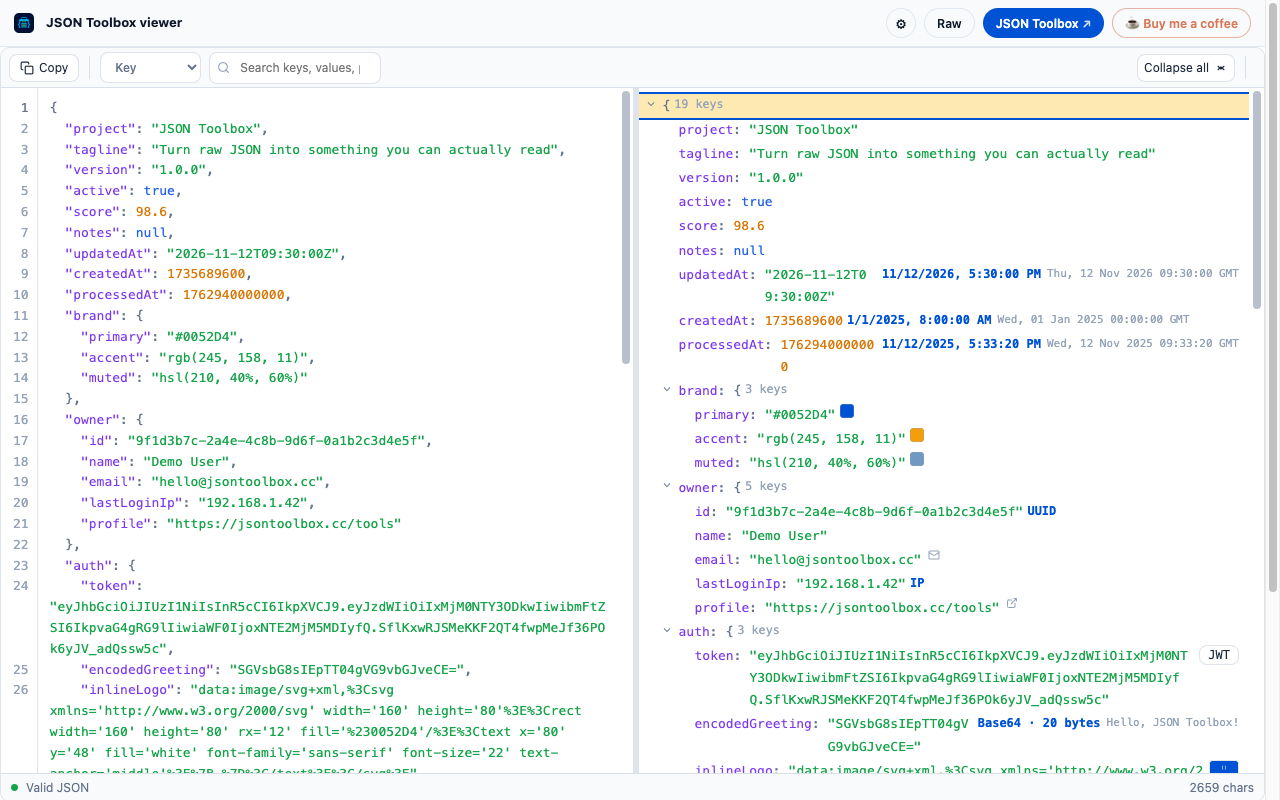
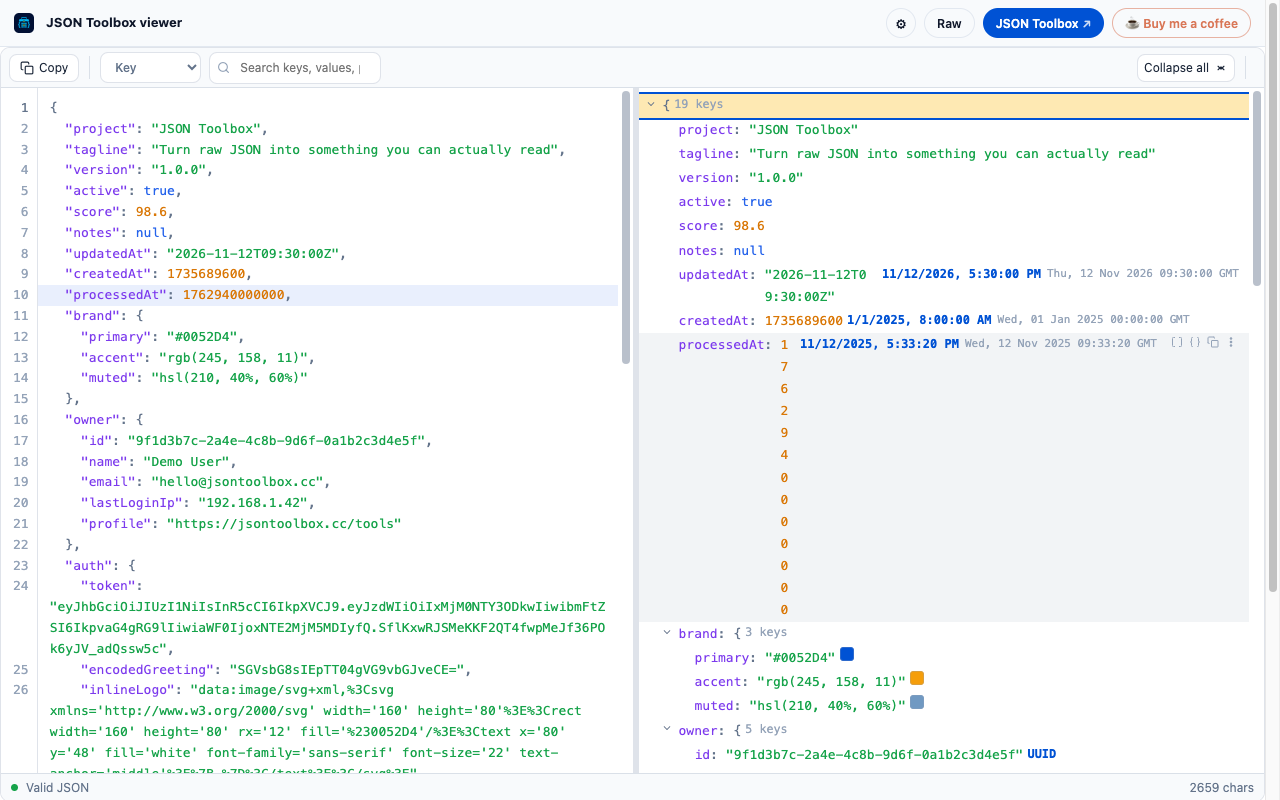
feat: 截图脚本支持中文商店素材生成，并修复设置弹层语言绑定错误

diff --git a/src/components/ViewerShell.vue b/src/components/ViewerShell.vue
@@ -206,7 +206,7 @@ defineExpose({
           </button>
           <div v-if="showSettings" class="settings-pop">
             <ViewerSettings
-              :locale="(opts.value.locale === 'zh' ? 'zh' : 'en') as 'en' | 'zh'"
+              :locale="(opts.locale === 'zh' ? 'zh' : 'en') as 'en' | 'zh'"
               :hide-auto="hideAuto"
               :site-url="siteUrl"
               @close="showSettings = false"
@@ -233,7 +233,7 @@ defineExpose({
 
     <div class="body">
       <div v-show="mode === 'tree'" ref="editorMount" class="je"></div>
-      <pre v-show="mode === 'raw'" class="raw">{{ opts.value.value }}</pre>
+      <pre v-show="mode === 'raw'" class="raw">{{ opts.value }}</pre>
     </div>
 
     <div v-if="showQrModal" class="qr-backdrop" @click.self="closeQr">

diff --git a/README.md b/README.md
@@ -119,7 +119,7 @@ Load the unpacked extension from `chrome://extensions` → Developer mode → `.
 - Name and short description (≤132 chars) live in `public/_locales/{en,zh,zh_CN}/messages.json` (`extName` / `extDescription`) and are the source of `name` / `description` in the generated manifest. The detailed description, category (Developer Tools), privacy policy URL, permission justifications and promo assets are filled in the store dashboard.
 - Required assets: a 128×128 store icon (`public/icon-128.png`), at least one and up to five 1280×800 screenshots, and a 440×280 small promo tile. A 1400×560 marquee image and a demo video are optional.
 - `demo/object-showcase.json` and `demo/table-orders.json` are sample documents for screenshots and manual testing (object root for tree / search / value insights, array root for table / sorting / CSV export). They are **not** bundled into the extension.
-- `scripts/capture-screenshots.cjs` regenerates the five 1280×800 PNGs in `store-assets/` with Playwright. It loads a staged copy of `.output/chrome-mv3` with the Chinese locales stripped, so `chrome.i18n` falls back to English and the real build output is untouched. The Chromium executable path is pinned to this machine's `chromium-1223`.
+- `scripts/capture-screenshots.cjs` regenerates the five 1280×800 PNGs with Playwright: default writes to `store-assets/` (English), `--zh` writes to `store-assets/zh/` (Chinese, same five shots). It loads a staged copy of `.output/chrome-mv3`; for the English set the Chinese locales are stripped so `chrome.i18n` falls back to `default_locale`. The real build output is untouched. The Chromium executable path is pinned to this machine's `chromium-1223`.
 - `scripts/generate-promo-images.cjs` renders `store-assets/promo-440x280.png` (required small promo tile) and `store-assets/marquee-1400x560.png` (optional marquee) from HTML/CSS with no image library. The marquee embeds screenshot 01, so regenerate the screenshots first.
 
 `docs/popup-config-integration.md` is a historical design document from the removed-popup refactor and no longer describes the current code.
